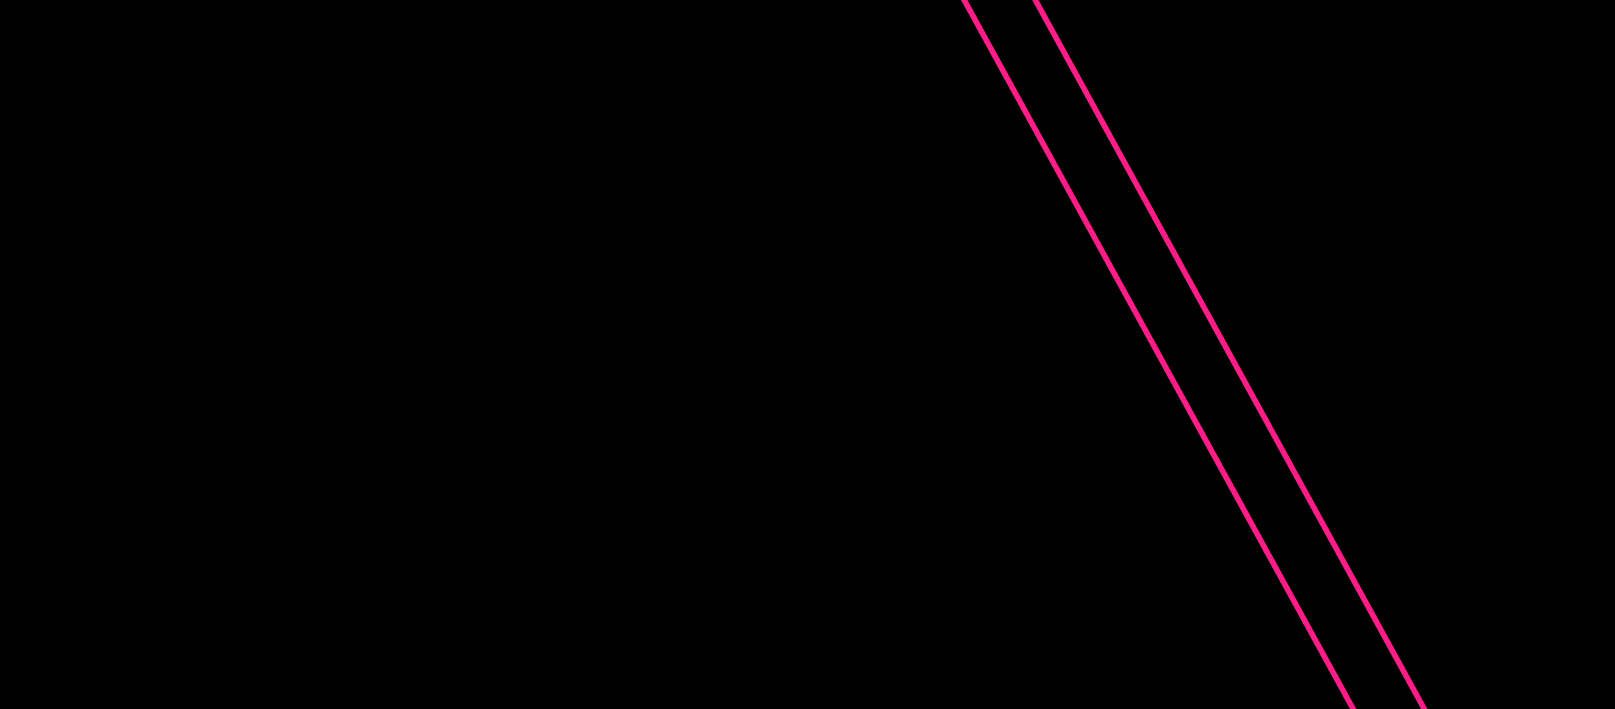
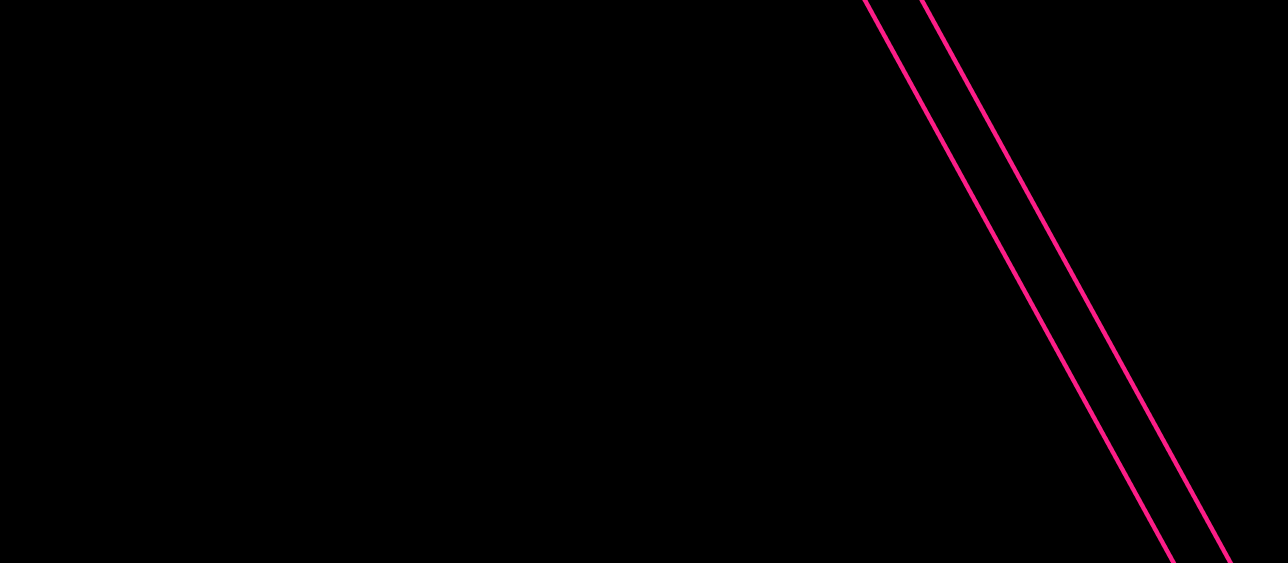
CHORE: second, third, fourth and fifth sections of vehicles comp done [REFS: #28]

Changed region(s): [[0.5901, 0.0, 0.9627, 1.0]]

diff --git a/src/components/VehiclesComponents/FifthSection.vue b/src/components/VehiclesComponents/FifthSection.vue
@@ -5,7 +5,7 @@
         <div class="container-first-info">
             <div class="container">
                 <div class="container-title">
-                    <h1>Caminhões</h1><h1 class="colored-text">Scania</h1>
+                    <h1>Caminhões</h1><h1 class="colored-text">Daf</h1>
                 </div>
                 <div class="container-text">
                     <p>Os caminhões da Scania são reconhecidos mundialmente por sua durabilidade, eficiência e inovação tecnológica, projetados para oferecer alto desempenho, desde transporte de cargas pesadas até serviços urbanos e de longa distância. </p>
@@ -21,7 +21,7 @@
             </ul>
         </div>  
         <div class="truck-container">
-            <img src="/public/imgs/caminhao-scania.png">
+            <img src="/public/imgs/caminhao-Daf.png">
         </div>
     </section>
 </template>
@@ -29,15 +29,12 @@
 @use '../../assets/main';
 
 section {
-    background-image: url(./public/imgs/background-line.png);
+    background-image: url(./public/imgs/background-inverse-line.png);
     background-size: cover;
     display: grid;
     grid-template-columns: 1fr 1fr;
     grid-template-rows: 1fr 1fr;
     align-items: center;
-    border-bottom: 3px solid main.$standard-pink;
-    border-top: 3px solid main.$standard-pink;
-
 
     .container-first-info {
         margin: 4em;
@@ -45,6 +42,8 @@ section {
         .container {
             padding-left: 3em;
             border-left: 4px solid main.$standard-pink;
+            grid-column: 2;
+            grid-row: 1;
             .container-title {
             display: flex;
             h1 {
@@ -69,6 +68,8 @@ section {
         
     }
     .container-ul {
+        grid-column: 2;
+        grid-row: 2;
         display: grid;
         grid-template-columns: 2fr 1fr;
         justify-items: center;
@@ -84,15 +85,14 @@ section {
         }
     }
     .truck-container {
-        width: 80%;
+        grid-column: 1;
+        grid-row: 1 / span 2;
+        width: 70%;
         img{
             width: 100%;
         }
-        margin-top: 2em;
-        margin-left: 4em;
+        margin: 2em;
         display: flex;
-        grid-column: 2;
-        grid-row: 1 / span 2;
     }
 }
 </style>

diff --git a/src/components/VehiclesComponents/ThirdSection.vue b/src/components/VehiclesComponents/ThirdSection.vue
@@ -5,7 +5,7 @@
         <div class="container-first-info">
             <div class="container">
                 <div class="container-title">
-                    <h1>Caminhões</h1><h1 class="colored-text">Scania</h1>
+                    <h1>Caminhões</h1><h1 class="colored-text">Volvo</h1>
                 </div>
                 <div class="container-text">
                     <p>Os caminhões da Scania são reconhecidos mundialmente por sua durabilidade, eficiência e inovação tecnológica, projetados para oferecer alto desempenho, desde transporte de cargas pesadas até serviços urbanos e de longa distância. </p>
@@ -21,7 +21,7 @@
             </ul>
         </div>  
         <div class="truck-container">
-            <img src="/public/imgs/caminhao-scania.png">
+            <img src="/public/imgs/caminhao-volvo.png">
         </div>
     </section>
 </template>
@@ -29,7 +29,7 @@
 @use '../../assets/main';
 
 section {
-    background-image: url(./public/imgs/background-line.png);
+    background-image: url(./public/imgs/background-inverse-line.png);
     background-size: cover;
     display: grid;
     grid-template-columns: 1fr 1fr;
@@ -45,6 +45,8 @@ section {
         .container {
             padding-left: 3em;
             border-left: 4px solid main.$standard-pink;
+            grid-column: 2;
+            grid-row: 1;
             .container-title {
             display: flex;
             h1 {
@@ -69,6 +71,8 @@ section {
         
     }
     .container-ul {
+        grid-column: 2;
+        grid-row: 2;
         display: grid;
         grid-template-columns: 2fr 1fr;
         justify-items: center;
@@ -84,15 +88,14 @@ section {
         }
     }
     .truck-container {
-        width: 80%;
+        grid-column: 1;
+        grid-row: 1 / span 2;
+        width: 70%;
         img{
             width: 100%;
         }
-        margin-top: 2em;
-        margin-left: 4em;
+        margin: 2em;
         display: flex;
-        grid-column: 2;
-        grid-row: 1 / span 2;
     }
 }
 </style>

diff --git a/src/components/VehiclesComponents/FourthSection.vue b/src/components/VehiclesComponents/FourthSection.vue
@@ -5,7 +5,7 @@
         <div class="container-first-info">
             <div class="container">
                 <div class="container-title">
-                    <h1>Caminhões</h1><h1 class="colored-text">Scania</h1>
+                    <h1>Caminhões</h1><h1 class="colored-text">Mercedez</h1>
                 </div>
                 <div class="container-text">
                     <p>Os caminhões da Scania são reconhecidos mundialmente por sua durabilidade, eficiência e inovação tecnológica, projetados para oferecer alto desempenho, desde transporte de cargas pesadas até serviços urbanos e de longa distância. </p>
@@ -21,7 +21,7 @@
             </ul>
         </div>  
         <div class="truck-container">
-            <img src="/public/imgs/caminhao-scania.png">
+            <img src="/public/imgs/caminhao-mercedez.png">
         </div>
     </section>
 </template>

diff --git a/src/components/VehiclesComponents/VehiclesComp.vue b/src/components/VehiclesComponents/VehiclesComp.vue
@@ -1,10 +1,16 @@
 <script setup>
     import FirstSection from './FirstSection.vue';
     import SecondSection from './SecondSection.vue';
+    import ThirdSection from './ThirdSection.vue';
+    import FourthSection from './FourthSection.vue';
+    import FifthSection from './FifthSection.vue';
 </script>
 <template>
     <FirstSection />
     <SecondSection />
+    <ThirdSection />
+    <FourthSection />
+    <FifthSection />
 </template>
 <style scoped lang="scss">
 @use '../../assets/main';

diff --git a/src/components/VehiclesComponents/FirstSection.vue b/src/components/VehiclesComponents/FirstSection.vue
@@ -18,7 +18,7 @@ section {
     background-image: url(./public/imgs/TruckVehicle.png);
     width: 100%;
     background-size: cover;
-    height: 40rem;
+    height: 50rem;
     display: flex;
     justify-content: center;
     border-bottom: 3.5px solid #FC1D87;
